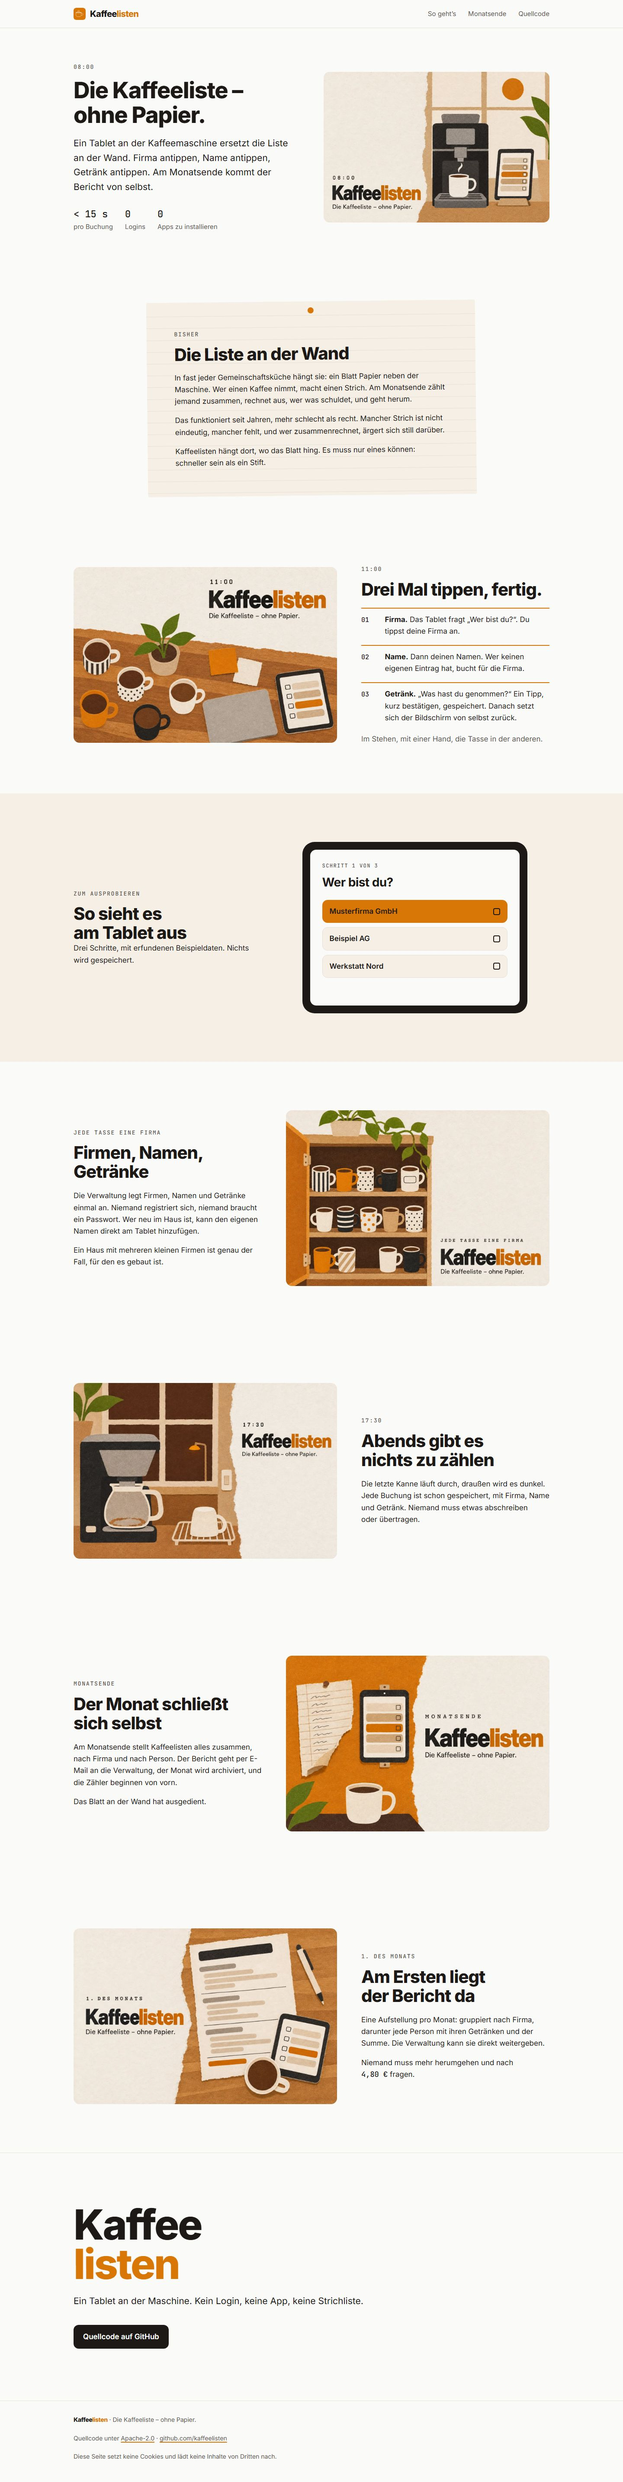
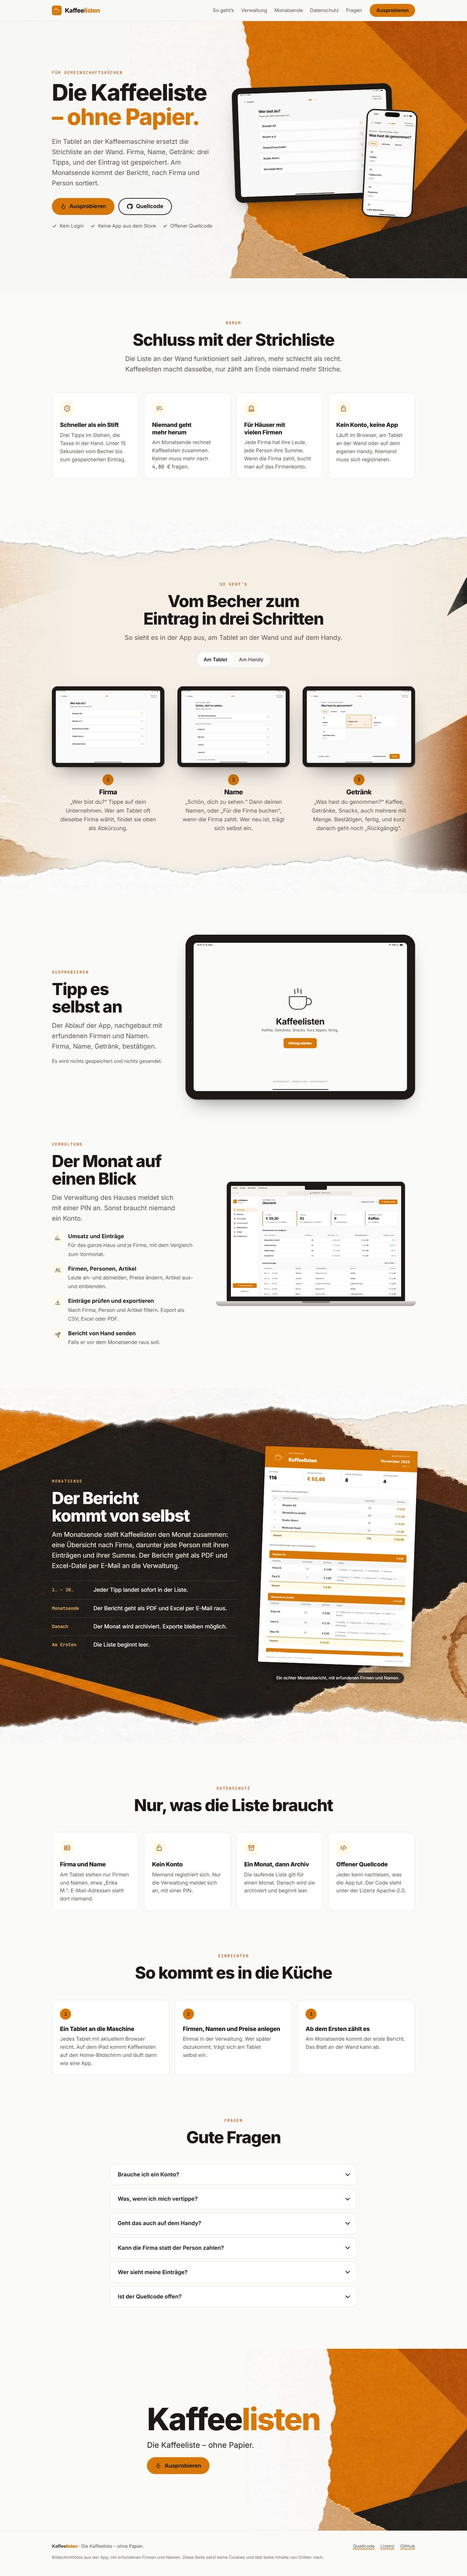
docs: document the layers and device frames, refresh screenshots

diff --git a/README.md b/README.md
@@ -5,13 +5,26 @@ The Kaffeelisten landing page. Static HTML and CSS with one small script, no bui
 | File | |
 |---|---|
 | `index.html` | The page. German copy. |
-| `styles.css` | Inks and type from the brand book. |
-| `tablet.js` | The tablet preview: the member flow with invented sample data. Nothing is stored. |
+| `styles.css` | Inks and type from the brand book, the paper layers, and the device frames. |
+| `kiosk.js` | The device switch and the live kiosk: a rebuild of the app's member flow with invented sample data. Nothing is stored or sent. |
 | `404.html` | Not-found page. |
-| `assets/plates/` | Day plates from `kaffeelisten/.github` → `brand/plates/`, resized to WebP at 1536 and 768 px. |
+| `assets/layers/` | Cut-paper layers in the language of `brand/plates/banner.png`: the plane fields, the dark and light bands, and two torn-edge masks. Drawn with the brand pipeline (`playbook/brand`), the torn paper shifted to Paper `#FAFAF9`. |
+| `assets/app/` | Screens from the real app (`kaffeelisten/kaffeelisten`, `main`), rendered with invented companies and names. |
 | `assets/og.jpg` | Copy of `brand/assets/og.jpg`, used for link previews. |
 | `assets/logo.svg` | Copy of `brand/logo/logo.svg`. |
 | `assets/fonts/` | Inter and JetBrains Mono, self-hosted. |
+
+## Device frames
+
+Each frame is drawn in the device's own points, so bezels, corner radii, status bars and the
+Dynamic Island keep their real proportions at any width. The app screens are captured at the
+viewport the app actually gets inside each device's system bars.
+
+| Device | Screen (pt) | App viewport (pt) |
+|---|---|---|
+| iPad Air 11" (M3), landscape | 1180 × 820 | 1180 × 776 (24 status bar, 20 home indicator) |
+| iPhone 17 Pro | 402 × 874 | 402 × 778 (62 status bar, 34 home indicator) |
+| MacBook Air 13" (M4) | 1470 × 956 | 1470 × 867 (37 menu bar, 52 browser toolbar) |
 
 ## Run locally
 
@@ -31,8 +44,8 @@ and moving it is a provider change made by the owner.
 
 ## Rules
 
-- Brand assets come from `kaffeelisten/.github` only. Do not draw or generate new ones here.
+- Brand assets come from `kaffeelisten/.github` or the brand pipeline. No stock imagery.
 - Inks: Paper `#FAFAF9`, Ink `#1C1917`, Amber `#D97706`, plus the room's inks from the brand book.
-  No customer's colour, name or logo.
-- No real people's data. The tablet preview uses invented names.
+  No customer's colour, name or logo, on the page or inside a screenshot.
+- No real people's data. Screens and the kiosk use invented companies and names.
 - Copy is German, calm and concrete. No emojis, no exclamation marks.
